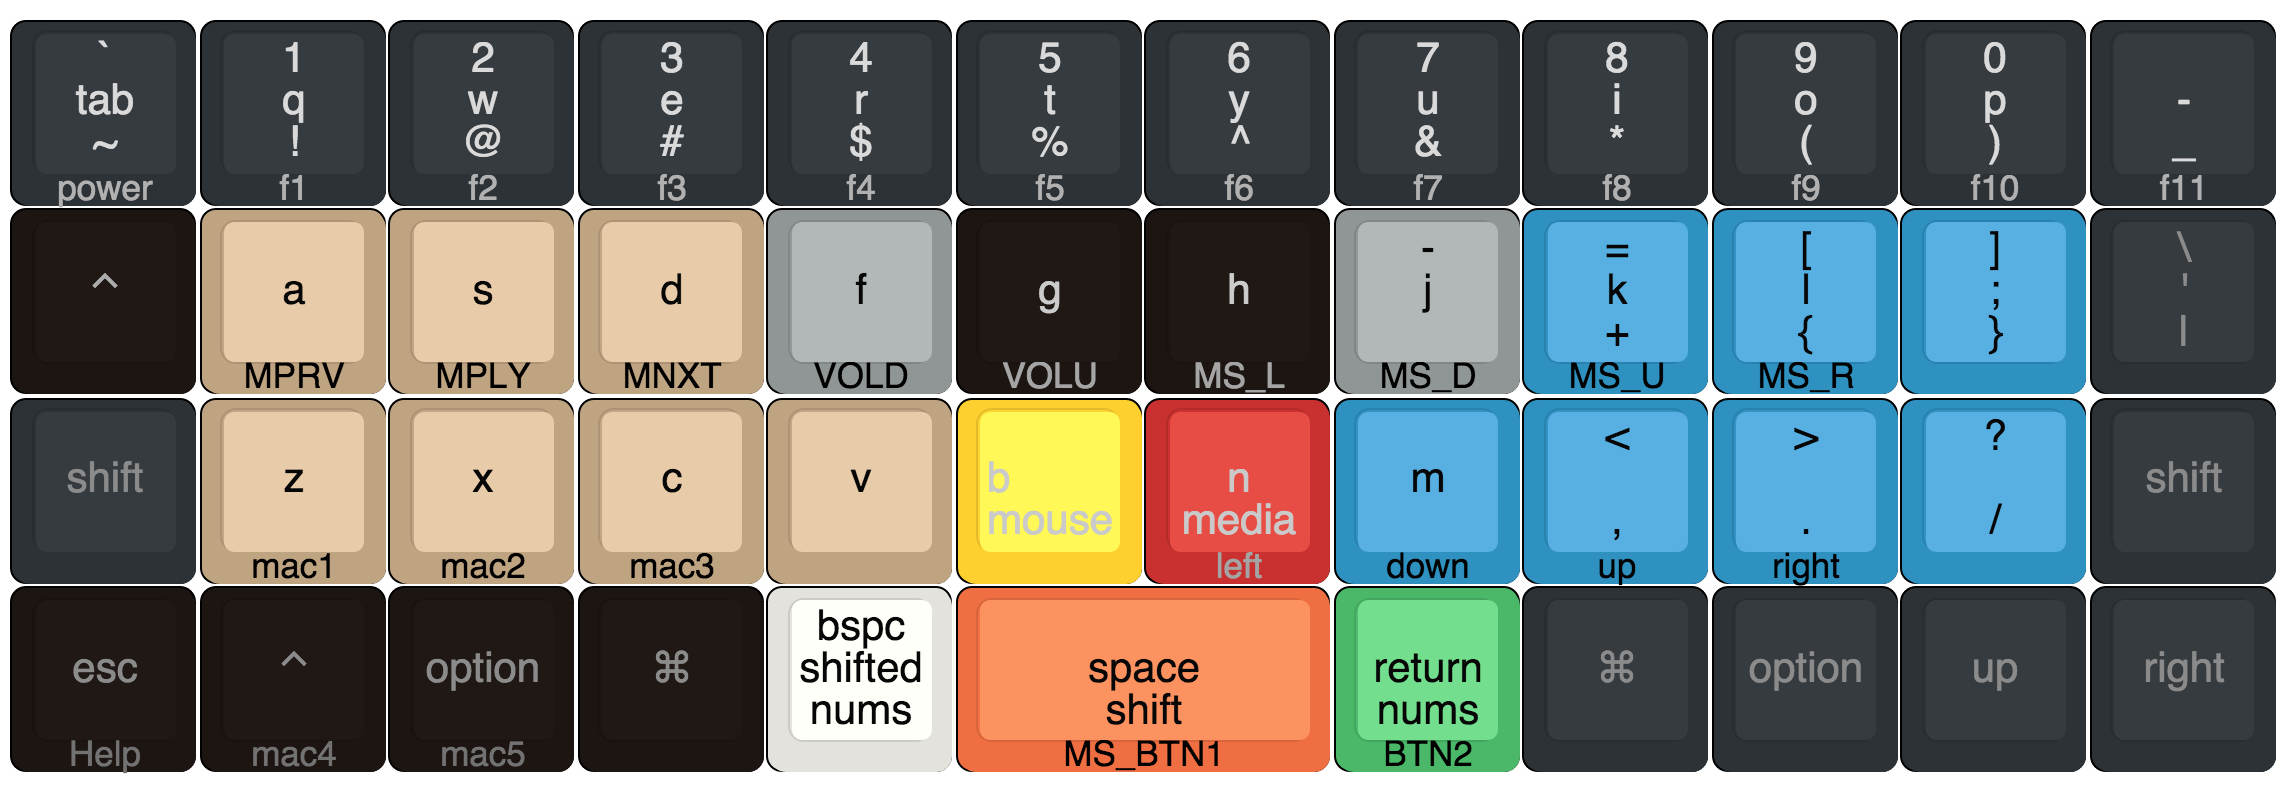
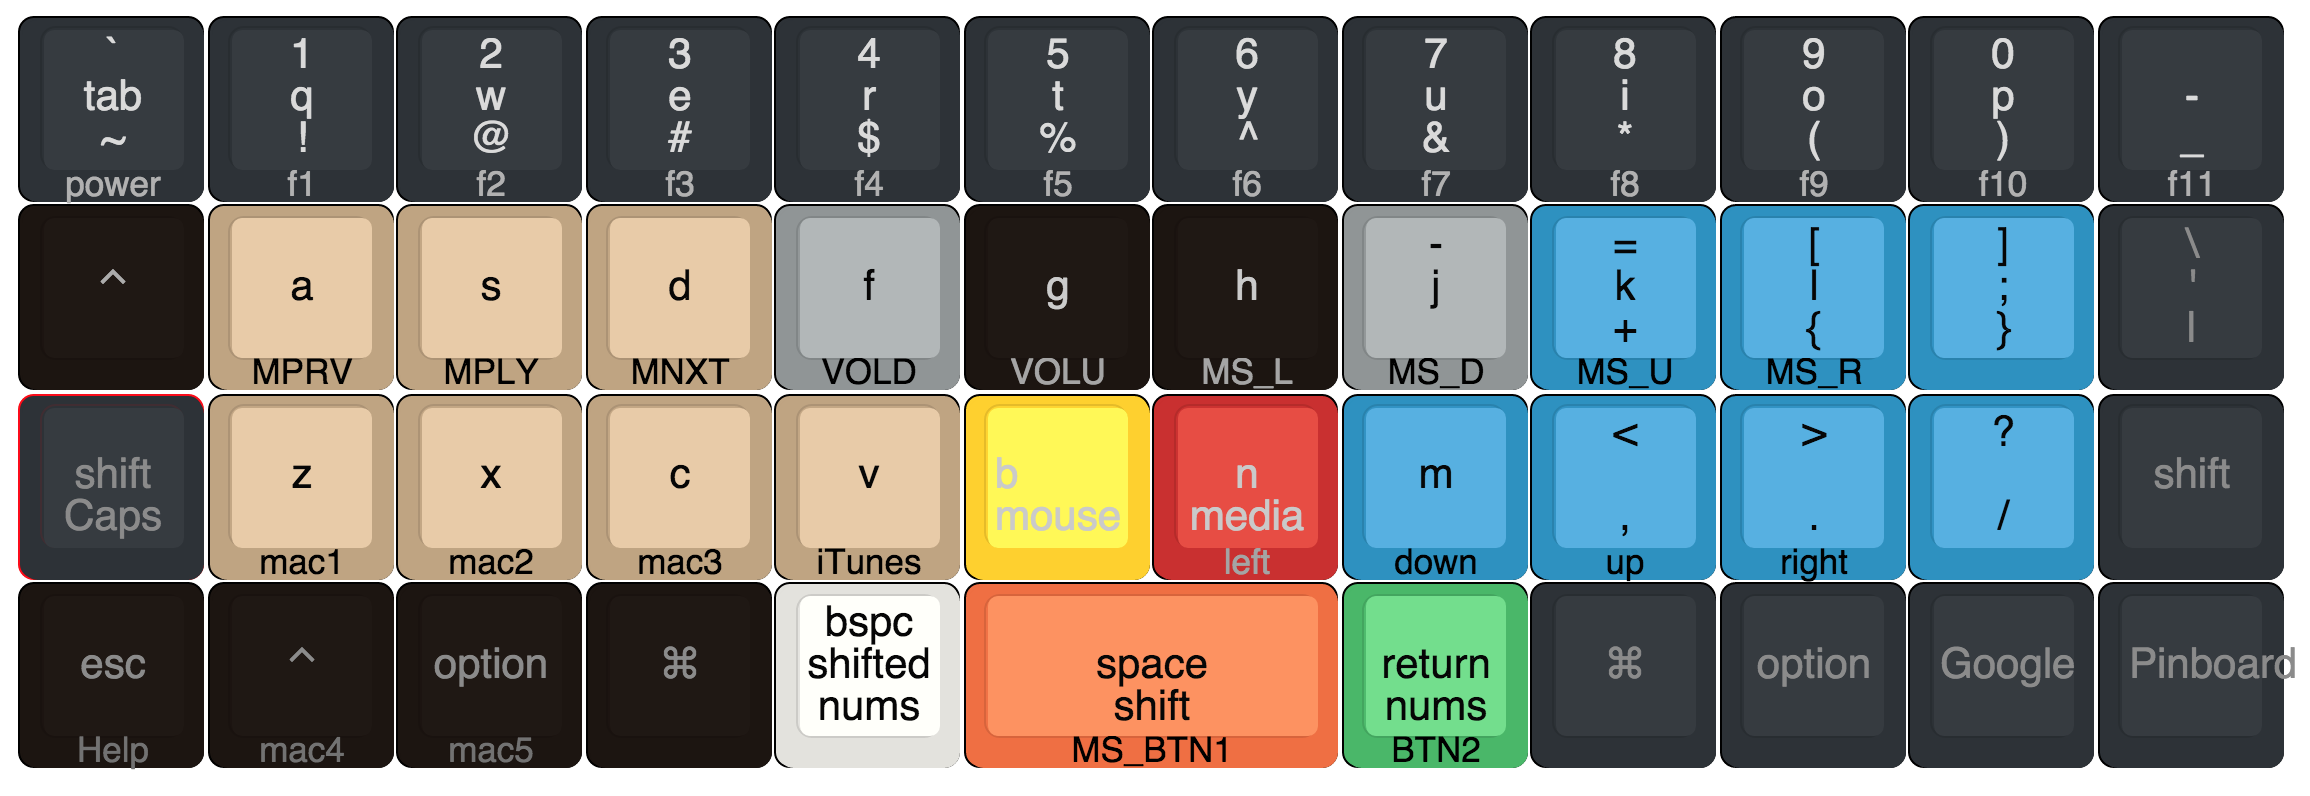
- add more macros - change keymap

diff --git a/keyboard/planck/extended_keymap_blind.c b/keyboard/planck/extended_keymap_blind.c
@@ -4,13 +4,13 @@ const uint16_t PROGMEM keymaps[][MATRIX_ROWS][MATRIX_COLS] = {
 [0] = {  // layer 1: Base
 {KC_TAB, KC_Q, KC_W, KC_E, KC_R, KC_T, KC_Y, KC_U, KC_I, KC_O, KC_P, KC_MINS},
 {KC_LCTL, KC_A, KC_S, KC_D, KC_F, KC_G, KC_H, KC_J, KC_K, KC_L, KC_SCLN, KC_QUOTE},
-{FUNC(11), KC_Z, KC_X, KC_C, KC_V, FUNC(6), FUNC(5), KC_M, KC_COMM, KC_DOT, KC_SLSH, KC_LSFT},
-{KC_ESC, KC_LCTL, KC_LALT, KC_LGUI, FUNC(2), FUNC(4), FUNC(3), KC_RGUI, KC_RALT, FUNC(5), KC_TRNS}},
+{FUNC(11), KC_Z, KC_X, KC_C, KC_V, FUNC(1), FUNC(0), KC_M, KC_COMM, KC_DOT, KC_SLSH, KC_LSFT},
+{KC_ESC, KC_LCTL, KC_LALT, KC_LGUI, FUNC(2), FUNC(4), FUNC(3), KC_RGUI, KC_RALT, FUNC(12), FUNC(13)}},
 
 [1] = {  // layer 1: Numbers
 {KC_GRV, KC_1, KC_2, KC_3, KC_4, KC_5, KC_6, KC_7, KC_8, KC_9, KC_0, KC_TRNS},
 {KC_TRNS, KC_TRNS, KC_TRNS, KC_TRNS, KC_TRNS, KC_TRNS, KC_TRNS, KC_EQL, KC_LBRC, KC_RBRC, KC_BSLS, KC_TRNS},
-{KC_TRNS, KC_TRNS, KC_TRNS, KC_TRNS, KC_TRNS, KC_TRNS, KC_TRNS, KC_TRNS, KC_EQL, KC_LBRC, KC_RBRC, KC_BSLS},
+{KC_TRNS, KC_TRNS, KC_TRNS, KC_TRNS, KC_TRNS, KC_TRNS, KC_TRNS, KC_TRNS, KC_TRNS, KC_TRNS, KC_TRNS, KC_TRNS},
 {KC_TRNS, KC_TRNS, KC_TRNS, KC_TRNS, KC_TRNS, KC_TRNS, KC_MS_BTN1, KC_MS_BTN2, KC_TRNS, KC_TRNS, KC_TRNS}},
 
 [2] = {  // layer 2: Shifted Numbers
@@ -19,17 +19,17 @@ const uint16_t PROGMEM keymaps[][MATRIX_ROWS][MATRIX_COLS] = {
 {KC_TRNS, KC_TRNS, KC_TRNS, KC_TRNS, KC_TRNS, KC_TRNS, KC_TRNS, KC_TRNS, KC_TRNS, KC_TRNS, KC_TRNS, KC_TRNS},
 {KC_TRNS, KC_TRNS, KC_TRNS, KC_TRNS, KC_TRNS, KC_TRNS, KC_TRNS, KC_TRNS, KC_TRNS, KC_TRNS, KC_TRNS}},
 
-[3] = {  // layer 3: Media + Macros, keys on left side of board
+[3] = {  // layer 4: Mouse + Arrow, keys on right side of board
+{KC_TRNS, KC_TRNS, KC_TRNS, KC_TRNS, KC_TRNS, KC_TRNS, KC_TRNS, KC_TRNS, KC_TRNS, KC_TRNS, KC_TRNS, KC_TRNS},
+{KC_TRNS, KC_TRNS, KC_TRNS, KC_TRNS, FUNC(14), KC_TRNS, KC_MS_L, KC_MS_D, KC_MS_U, KC_MS_R, KC_TRNS, KC_TRNS},
+{KC_TRNS, KC_TRNS, KC_TRNS, KC_TRNS, KC_TRNS, KC_TRNS, KC_LEFT, KC_DOWN, KC_UP, KC_RIGHT, KC_TRNS, KC_TRNS},
+{KC_TRNS, KC_TRNS, KC_TRNS, KC_TRNS, KC_TRNS, KC_TRNS, KC_MS_BTN1, KC_MS_BTN2, KC_TRNS, KC_TRNS, KC_TRNS}},
+
+[4] = {  // layer 3: Media + Macros, keys on left side of board
 {KC_POWER, KC_F1, KC_F2, KC_F3, KC_F4, KC_F5, KC_F6, KC_F7, KC_F8, KC_F9, KC_F10, KC_F11},
 {KC_TRNS, KC_MPRV, KC_MPLY, KC_MNXT, KC_VOLD, KC_VOLU, KC_TRNS, KC_TRNS, KC_TRNS, KC_TRNS, KC_TRNS, KC_TRNS},
 {KC_TRNS, FUNC(5), FUNC(6), FUNC(7), KC_TRNS, KC_TRNS, KC_TRNS, KC_TRNS, KC_TRNS, KC_TRNS, KC_TRNS, KC_TRNS},
 {FUNC(9), FUNC(8), FUNC(10), KC_TRNS, KC_TRNS, KC_TRNS, KC_TRNS, KC_TRNS, KC_TRNS, KC_TRNS, KC_TRNS}},
-
-[4] = {  // layer 4: Mouse + Arrow, keys on right side of board
-{KC_TRNS, KC_TRNS, KC_TRNS, KC_TRNS, KC_TRNS, KC_TRNS, KC_TRNS, KC_TRNS, KC_TRNS, KC_TRNS, KC_TRNS, KC_TRNS},
-{KC_TRNS, KC_TRNS, KC_TRNS, KC_TRNS, KC_TRNS, KC_TRNS, KC_MS_L, KC_MS_D, KC_MS_U, KC_MS_R, KC_TRNS, KC_TRNS},
-{KC_TRNS, KC_TRNS, KC_TRNS, KC_TRNS, KC_TRNS, KC_TRNS, KC_LEFT, KC_DOWN, KC_UP, KC_RIGHT, KC_TRNS, KC_TRNS},
-{KC_TRNS, KC_TRNS, KC_TRNS, KC_TRNS, KC_TRNS, KC_TRNS, KC_MS_BTN1, KC_MS_BTN2, KC_TRNS, KC_TRNS, KC_TRNS}},
 };
 enum macro_id {
 PASSWORD1,
@@ -37,12 +37,16 @@ PASSWORD2,
 PASSWORD3,
 PASSWORD4,
 PASSWORD5,
+GOOGLE,
 HELP,
+ITUNES,
+PINBOARD,
 };
 /*
  * Macro definition
  */
 #include "keymap_passwords.h"
+#include "keymap_blind_macros.h"
 const macro_t *action_get_macro(keyrecord_t *record, uint8_t id, uint8_t opt) {
     if (record->event.pressed) {
         switch (id) {
@@ -51,21 +55,28 @@ const macro_t *action_get_macro(keyrecord_t *record, uint8_t id, uint8_t opt) {
             case PASSWORD3:     return MACRO_PASSWORD3;
             case PASSWORD4:     return MACRO_PASSWORD4;
             case PASSWORD5:     return MACRO_PASSWORD5;
+            case GOOGLE:        return MACRO_GOOGLE;
             case HELP:          return MACRO_HELP;
+            case ITUNES:        return MACRO_ITUNES;
+            case PINBOARD:      return MACRO_PINBOARD;
+
 	}
     }return MACRO_NONE;
 }
 const uint16_t PROGMEM fn_actions[] = {
-    [0]  = ACTION_LAYER_TAP_KEY(3, KC_N),	       // FN0  - Media Keys
-    [1]  = ACTION_LAYER_TAP_KEY(4, KC_B),	       // FN1  - Mouse and Arrows
-    [2]  = ACTION_LAYER_TAP_KEY(1, KC_BSPC),	       // FN2  - Numbers
-    [3]  = ACTION_LAYER_TAP_KEY(2, KC_ENT),	       // FN3  - Shifted Numbers
-    [4]  = ACTION_MODS_TAP_KEY(MOD_LSFT, KC_SPC),      // FN4  - Shift, Space
-    [5]  = ACTION_MACRO(PASSWORD1),		       // FN5  - Password 1	
-    [6]  = ACTION_MACRO(PASSWORD2),		       // FN6  - Password 2
-    [7]  = ACTION_MACRO(PASSWORD3),		       // FN7  - Password 3
-    [8]  = ACTION_MACRO(PASSWORD4),		       // FN8  - Password 4
-    [9]  = ACTION_MACRO(HELP),			       // FN9  - Help
-    [10] = ACTION_MACRO(PASSWORD5),		       // FN10 - Password 5
-    [11] = ACTION_MODS_TAP_KEY(MOD_LSFT, KC_CAPS),     // FN11 - Shift, Caps 
+    [0]  = ACTION_LAYER_TAP_KEY(4, KC_N),	      // FN0  - Media Keys
+    [1]  = ACTION_LAYER_TAP_KEY(3, KC_B),	      // FN1  - Mouse and Arrows
+    [2]  = ACTION_LAYER_TAP_KEY(1, KC_BSPC),	      // FN2  - Numbers
+    [3]  = ACTION_LAYER_TAP_KEY(2, KC_ENT),	      // FN3  - Shifted Numbers
+    [4]  = ACTION_MODS_TAP_KEY(MOD_LSFT, KC_SPC),     // FN4  - Shift, Space
+    [5]  = ACTION_MACRO(PASSWORD1),		      // FN5  - Password 1	
+    [6]  = ACTION_MACRO(PASSWORD2),		      // FN6  - Password 2
+    [7]  = ACTION_MACRO(PASSWORD3),		      // FN7  - Password 3
+    [8]  = ACTION_MACRO(PASSWORD4),		      // FN8  - Password 4
+    [9]  = ACTION_MACRO(HELP),			      // FN9  - Help
+    [10] = ACTION_MACRO(PASSWORD5),		      // FN10 - Password 5
+    [11] = ACTION_MODS_TAP_KEY(MOD_LSFT, KC_CAPS),    // FN11 - Shift, Caps 
+    [12] = ACTION_MACRO(GOOGLE),		      // FN12 - Google
+    [13] = ACTION_MACRO(PINBOARD),		      // FN13 - Pinboard
+    [14] = ACTION_MACRO(ITUNES),		      // FN14 - Itunes
 };

diff --git a/keyboard/planck/README.md b/keyboard/planck/README.md
@@ -30,6 +30,7 @@ To build firmware binary hex file with a certain keymap just do `make` with `KEY
 
     $ make KEYMAP=[<name>]
 
+## 
 ## Notable TMK forks (which some of the keymap files are from)
 - [Shane's Fork](https://github.com/shanecelis/tmk_keyboard/tree/master/keyboard/planck)
 - [Pierre's Fork](https://github.com/pcarrier/tmk_keyboard/blob/pcarrier/planck/keyboard/gh60/keymap_planck.c)
